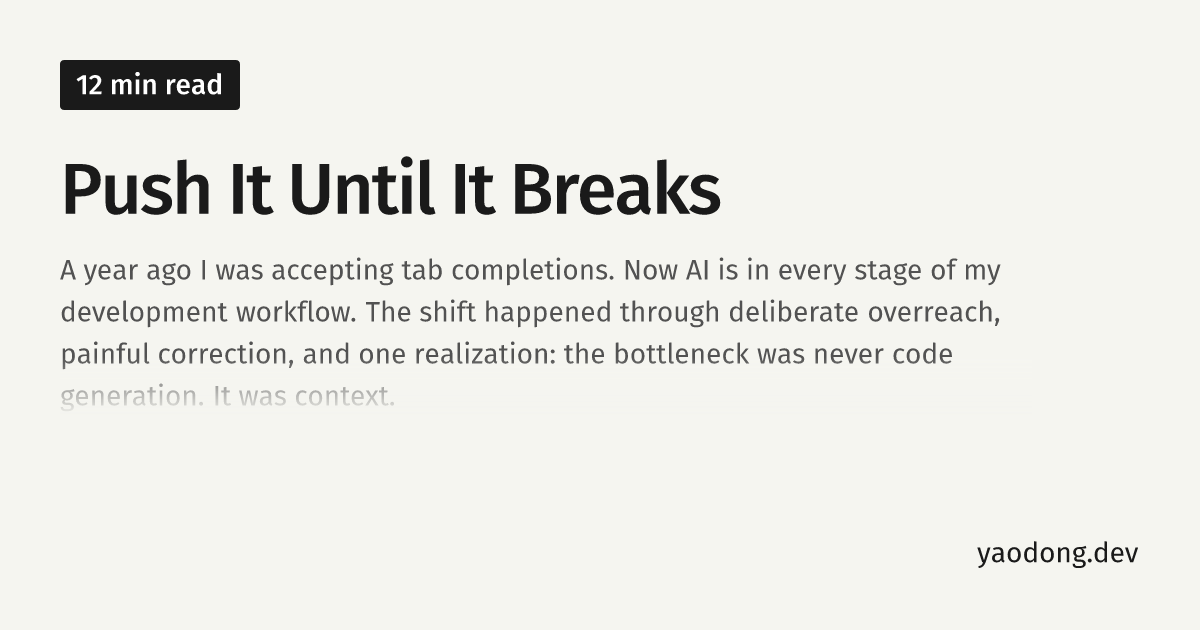
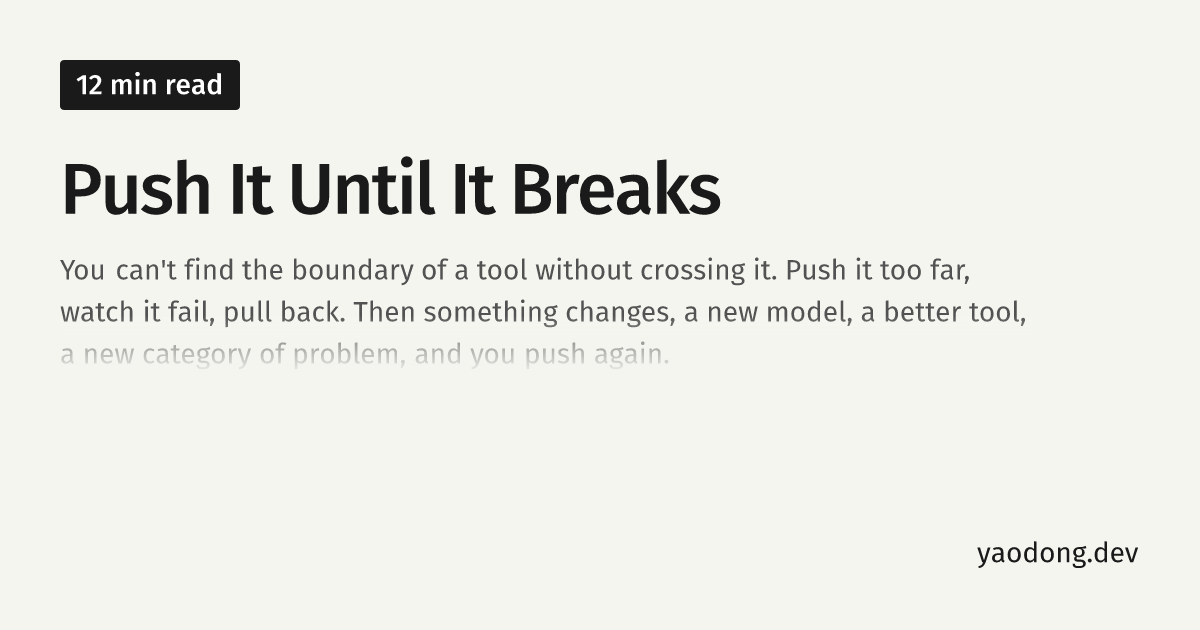
Update excerpt and OG image for Push It Until It Breaks post

Changed region(s): [[0.0308, 0.5429, 0.8017, 0.6635], [0.0308, 0.3921, 0.8325, 0.4524], [0.0308, 0.4825, 0.8633, 0.5127]]

diff --git a/_posts/2026-03-01-push-it-until-it-breaks.md b/_posts/2026-03-01-push-it-until-it-breaks.md
@@ -2,21 +2,17 @@
 layout: post
 title: Push It Until It Breaks
 created_date: 2026-03-01T00:00:00.000Z
-excerpt: >-
-  A year ago I was accepting tab completions. Now AI is in every stage of my
-  development workflow. The shift happened through deliberate overreach, painful
-  correction, and one realization: the bottleneck was never code generation. It
-  was context.
+excerpt: "You can't find the boundary of a tool without crossing it. Push it too far, watch it fail, pull back. Then something changes, a new model, a better tool, a new category of problem, and you push again."
 image: /assets/images/og/2026-03-01-push-it-until-it-breaks.png
 ---
 
-A year ago I was accepting tab completions. Now AI is in every stage of my development workflow, from problem definition to deployment. The shift didn't happen in a weekend. It happened through a repeating cycle: push the tool too far, watch it fail, pull back, then push again when the next model drops.
+A year ago I was accepting tab completions. Now AI is in every stage of my development workflow, from problem definition to deployment. The shift didn't happen in a weekend. It happened through a repeating cycle: push the tool too far, watch it fail, pull back. Then something changes, a new model, a better tool, a different workflow, a new category of problem, and I push again.
 
 I work on production systems. The kind with years of accumulated decisions, implicit constraints, and code that nobody fully understands anymore. This is not a story about building something new in three days. It's about what happens when you bring AI into a codebase that fights back.
 
 ## The overuse cycle
 
-You can't find the boundary of a tool without crossing it. My method, if you can call it that, is deliberate overuse. Every time I get access to a new model or a meaningful upgrade, I push it past what I think it can handle. I let it take on tasks I'm not sure it's ready for. It fails. I learn something specific about where it breaks. I pull back to a level I can deliver at. Then the next model drops, and I push again.
+You can't find the boundary of a tool without crossing it. My method, if you can call it that, is deliberate overuse. Every time I get access to a new model or a meaningful upgrade, I push it past what I think it can handle. I let it take on tasks I'm not sure it's ready for. It fails. I learn something specific about where it breaks. I pull back to a level I can deliver at. Then something changes, a new model, a better tool, a different approach, a new category of problem, and I push again.
 
 In mid-2025, I tried delegating legacy refactoring to AI. It would confidently rename internal methods, then call the old names elsewhere in the codebase. It would invent helper functions that didn't exist. On complex tasks, the time I spent fixing AI's mistakes ate into the time I was supposed to be saving, so I pulled back. When Opus 4.5 dropped in late November 2025, I tried the same category of task again. The model handled the renames correctly, and it caught something an IDE wouldn't: mock annotations in pytest that still referenced the old names as strings. Three months later, Opus 4.6 pushed it further. It could read through legacy code and answer detailed questions about behavior that used to require digging through years of commits. Each cycle teaches me something the previous one couldn't, because the tool is genuinely different from the one I calibrated against last time.
 
@@ -24,11 +20,11 @@ In mid-2025, I tried delegating legacy refactoring to AI. It would confidently r
 
 That cycle taught me something else: more often than not, the failures weren't about model capability. They were about what I was feeding the model.
 
-The single most important thing I've learned is that the real work of AI-assisted development is making your codebase legible to the AI. People have started calling this context engineering. For me, it came down to something concrete: the quality of AI output had less to do with how I asked and more to do with what I gave the model to work with. Documentation, code structure, architectural constraints, type systems, tool definitions, conversation history — all of it matters more than the prompt.
+The single most important thing I've learned is that the real work of AI-assisted development is making your codebase legible to the AI. People have started calling this context engineering. For me, it came down to something concrete: the quality of AI output had less to do with how I asked and more to do with what I gave the model to work with. Documentation, code structure, architectural constraints, type systems, tool definitions, conversation history. All of it matters more than the prompt.
 
 In practice, this means clear module boundaries so the AI knows where one concern ends and another begins. It means typed interfaces so it can reason about contracts without reading every implementation. Documentation maintained as infrastructure, not an afterthought. Architectural constraints enforced mechanically by linters and CI, not by convention that the AI can't see.
 
-I've started evaluating every task through this lens. When I look at a piece of work, I'm asking: what context does this need, where does it live, and how hard is it to gather? A new feature is usually straightforward because the context has natural boundaries: a PRD, a design spec, an API doc. But troubleshooting a subtle bug in a business workflow is a completely different situation. The context is implicit, scattered across code paths, old Slack threads, and the heads of people who built the system. You can't hand that to AI. Not yet, anyway. You have to drive the conversation yourself, peeling back layers until the picture becomes clear.
+I've started evaluating every task through this lens. When I look at a piece of work, I'm asking: what context does this need, where does it live, and how hard is it to gather? A new feature is usually straightforward because the context has natural boundaries: a PRD, a design spec, an API doc. But troubleshooting a subtle bug in a business workflow is a completely different situation. The context is implicit, scattered across code paths, old Slack threads, and the heads of people who built the system. You can't hand that to AI. Not yet, anyway. You have to drive the conversation yourself, digging until you understand what's actually going on.
 
 ## Build context before writing code
 
@@ -88,11 +84,11 @@ If my own instincts have blind spots, it follows that any single model does too.
 
 I use Claude Opus and OpenAI's Codex on the same codebase and have them review each other. The natural checkpoint is the git commit: whenever changes are coherent enough to commit, I run the other model over the diff.
 
-Cross-model review catches real problems. In a side project, I removed a Rails credentials file and Claude helpfully cleaned up the corresponding .gitignore entry. Codex flagged that change: if someone on the team later used Rails credentials without realizing the ignore rule was gone, they could accidentally commit secrets to the repo. It was the kind of thing a second pair of eyes catches — not because one model is smarter, but because they have slightly different perspectives, like engineers with different backgrounds on the same team.
+Cross-model review catches real problems. In a side project, I removed a Rails credentials file and Claude helpfully cleaned up the corresponding .gitignore entry. Codex flagged that change: if someone on the team later used Rails credentials without realizing the ignore rule was gone, they could accidentally commit secrets to the repo. It was the kind of thing a second pair of eyes catches, not because one model is smarter, but because they have slightly different perspectives, like engineers with different backgrounds on the same team.
 
 Different models also have different architectural tendencies. One will over-split code into too many small abstractions. Another will over-engineer the overall structure. These tendencies shift with each model upgrade, which means the specific blind spots I'm compensating for keep changing too.
 
-After months of doing this, I have a sense of what cross-model review is good at: factual errors, knowledge gaps, inconsistencies. It's less useful when two models genuinely disagree on an architectural question. That usually means I haven't given them enough shared context to converge; the divergence is a signal about the context, not about which model is right. And when one model gets stuck on a problem — can't fix a failing test no matter how many attempts — switching to the other often breaks through.
+After months of doing this, I have a sense of what cross-model review is good at: factual errors, knowledge gaps, inconsistencies. It's less useful when two models genuinely disagree on an architectural question. That usually means I haven't given them enough shared context to converge; the divergence is a signal about the context, not about which model is right. And when one model gets stuck on a problem, can't fix a failing test no matter how many attempts, switching to the other often breaks through.
 
 There's a deeper limitation. AI models are too easy to convince. If I explain my reasoning with any confidence, both models will agree. This means cross-review catches what I don't know, but it probably won't push back on what I'm wrong about. For that, you need a human colleague, or at minimum the discipline to ask AI to argue against your position before you ask it to confirm.
 
@@ -102,6 +98,6 @@ None of this has made engineering easier. It's made it different.
 
 The developers I know who get good results are doing the opposite of vibing. They're controlling: reviewing plans, enforcing constraints, catching the things AI misses. The engineering skill hasn't disappeared. It's been redirected, from writing code to evaluating code, from implementing designs to judging designs, from solving problems to framing problems correctly. When AI handles execution, I have time to engage with context I never had bandwidth for before: why did the customer raise this issue, how did the PM arrive at this solution, is there a simpler framing everyone missed.
 
-I've gone back and forth on how much to invest in specific AI workflows. Most of what I learned six months ago is already outdated. But the time I spent making our codebase more legible, better typed, better documented — that compounds regardless of which model I use next. The specific tools don't matter. What matters is whether you can look at a problem, break it into pieces that a machine can handle, and tell whether the output is actually correct.
+I've gone back and forth on how much to invest in specific AI workflows. Most of what I learned six months ago is already outdated. But the time I spent making our codebase more legible, better typed, better documented? That compounds regardless of which model I use next. The specific tools don't matter. What matters is whether you can look at a problem, break it into pieces that a machine can handle, and tell whether the output is actually correct.
 
 That skill isn't going anywhere. Everything else is moving fast enough that I'm staying in the overuse cycle. Push, break, learn, push again.
